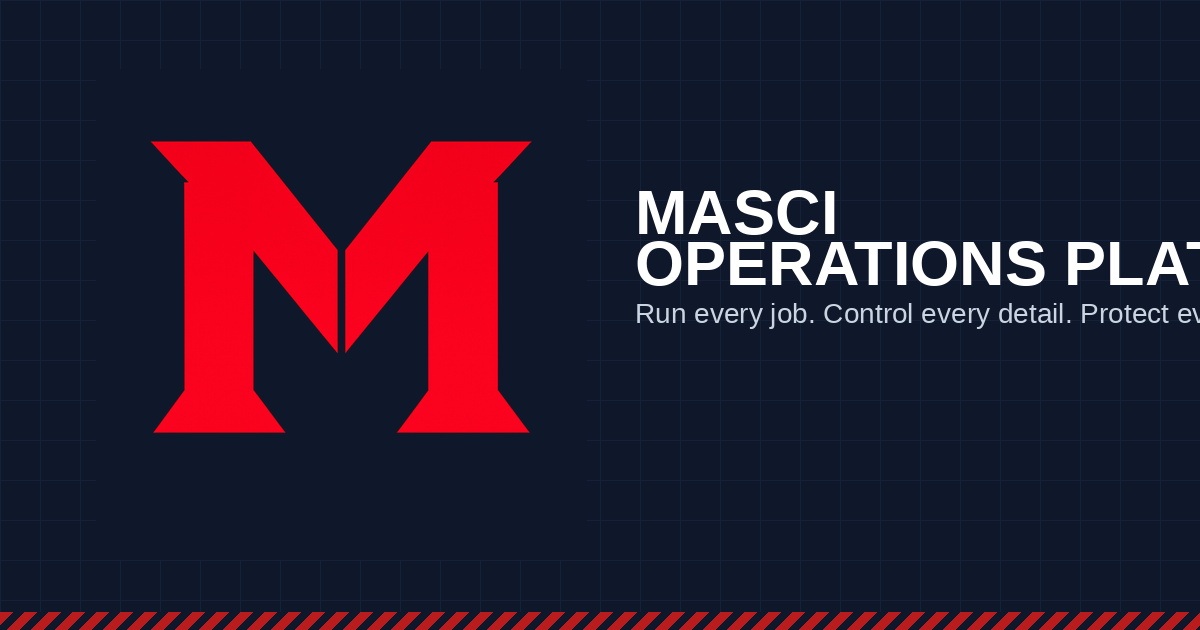
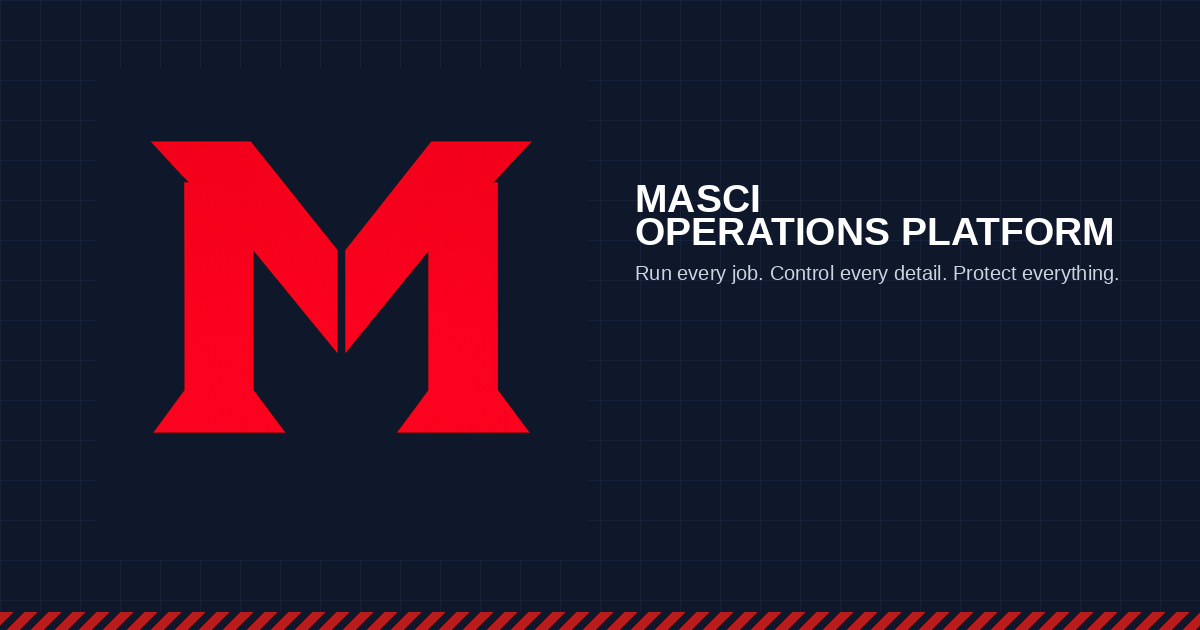
auto-commit for a8d049e3-c640-4f06-a5f2-64f012304a09

Changed region(s): [[0.5242, 0.2714, 1.0, 0.4524], [0.5242, 0.4825, 1.0, 0.5127], [0.9867, 0.3619, 1.0, 0.3921]]

diff --git a/frontend/src/buildVersion.generated.js b/frontend/src/buildVersion.generated.js
@@ -3,5 +3,5 @@
 //
 // Field crews / PMs / support: when reporting an issue, include this version
 // so we can pin the exact deployed code.
-export const BUILD_VERSION = "v2026.05.17-a3ca8c5";
-export const BUILT_AT_ISO = "2026-05-17T01:17:13.392Z";
+export const BUILD_VERSION = "v2026.05.17-30a4a27";
+export const BUILT_AT_ISO = "2026-05-17T04:14:36.901Z";

diff --git a/backend/scripts/rebuild_brand_assets.py b/backend/scripts/rebuild_brand_assets.py
@@ -95,19 +95,48 @@ def compose_og(w: int, h: int) -> Image.Image:
     m_y = (h - m_side) // 2
     canvas.paste(m, (m_x, m_y))
 
-    # Wordmark + tagline in the right two-thirds
+    # Wordmark + tagline in the right two-thirds. Auto-fit each line so the
+    # text NEVER overflows the canvas — previously this used a fixed font
+    # size (10 % of height) which clipped "OPERATIONS PLATFORM" past the
+    # right edge on the 1200×630 spec ratio, and iMessage's tighter crop
+    # made it worse. We pick the largest font that fits inside the
+    # available slot with a 64-px safe margin on the right.
     text_x = m_x + m_side + int(w * 0.04)
-    wm_size = int(h * 0.10)
-    tag_size = int(h * 0.045)
-    try:
-        wm_font = ImageFont.truetype(FONT_BOLD, wm_size)
-        tag_font = ImageFont.truetype(FONT_REG, tag_size)
-    except OSError:
-        wm_font = ImageFont.load_default()
-        tag_font = ImageFont.load_default()
+    right_margin = max(64, int(w * 0.055))
+    avail_w = w - text_x - right_margin
+
+    def _fit_font(text: str, max_w: int, max_size: int, font_path: str,
+                  min_size: int = 18) -> ImageFont.FreeTypeFont:
+        size = max_size
+        while size > min_size:
+            try:
+                f = ImageFont.truetype(font_path, size)
+            except OSError:
+                return ImageFont.load_default()
+            bb = draw.textbbox((0, 0), text, font=f)
+            if (bb[2] - bb[0]) <= max_w:
+                return f
+            size -= 2
+        try:
+            return ImageFont.truetype(font_path, min_size)
+        except OSError:
+            return ImageFont.load_default()
 
     line1 = "MASCI"
     line2 = "OPERATIONS PLATFORM"
+    tagline = "Run every job. Control every detail. Protect everything."
+
+    # Wordmark target: 10 % of height (≈ 63 px at 1200×630), shrunk to fit.
+    wm_target = int(h * 0.10)
+    # Tagline target: 4.5 % of height (≈ 28 px), shrunk to fit.
+    tag_target = int(h * 0.045)
+
+    # Both wordmark lines must share the same font size — pick the size
+    # that fits the LONGER line, then apply to both. This keeps the
+    # vertical rhythm consistent across renders.
+    wm_font = _fit_font(line2, avail_w, wm_target, FONT_BOLD)
+    tag_font = _fit_font(tagline, avail_w, tag_target, FONT_REG)
+
     bbox1 = draw.textbbox((0, 0), line1, font=wm_font)
     bbox2 = draw.textbbox((0, 0), line2, font=wm_font)
     line1_h = bbox1[3] - bbox1[1]
@@ -117,7 +146,6 @@ def compose_og(w: int, h: int) -> Image.Image:
     draw.text((text_x, block_top + line1_h + int(h * 0.01)),
               line2, fill=WHITE, font=wm_font)
 
-    tagline = "Run every job. Control every detail. Protect everything."
     draw.text(
         (text_x, block_top + line1_h + line2_h + int(h * 0.05)),
         tagline, fill=SLATE_300, font=tag_font,
